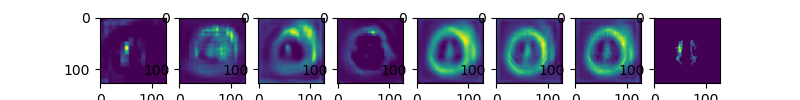
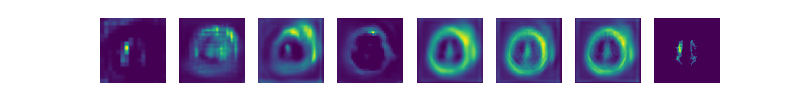
Added activation up maps

diff --git a/test_results.py b/test_results.py
@@ -345,7 +345,6 @@ def main_test(load=True, verbose=False, centers=None, activation_maps=False, plo
             plt.axis('off')
             plt.imshow(activation_maps[i-1])
 
-        plt.axis("off")
         plt.savefig(imagesDir + 'activation_maps.png', bbox_inches='tight')
 
         activation_maps = np.load(dataDir + 'activation_maps_up.npy')
@@ -354,6 +353,7 @@ def main_test(load=True, verbose=False, centers=None, activation_maps=False, plo
         fig = plt.figure(figsize=(columns, rows))
         for i in range(1, columns * rows + 1):
             fig.add_subplot(rows, columns, i)
+            plt.axis('off')
             plt.imshow(activation_maps[i - 1])
         plt.savefig(imagesDir + 'activation_maps_up.png')
 
